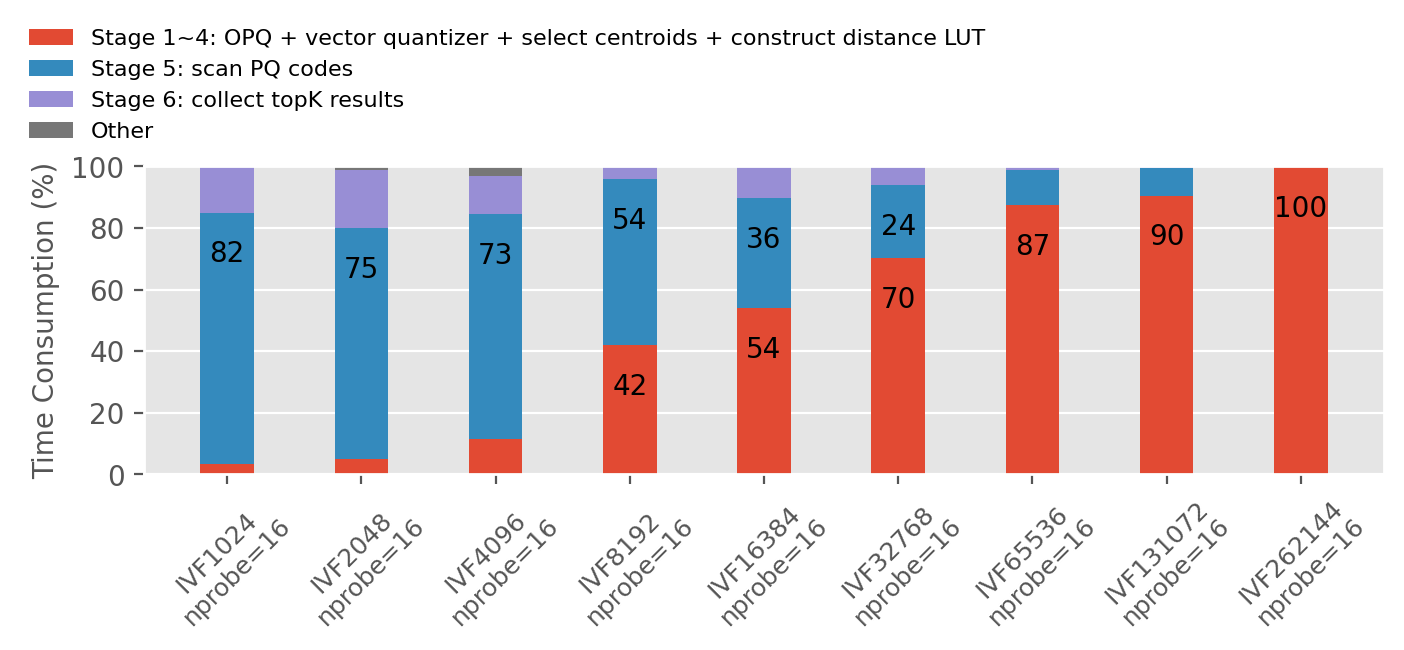
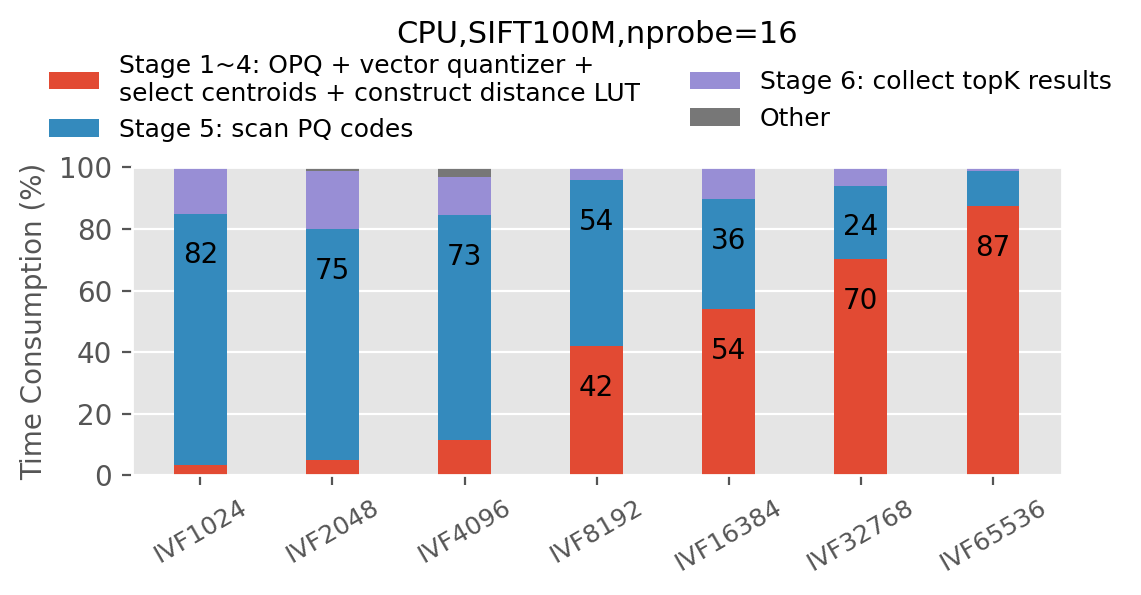
update plots

diff --git a/MICRO_CPU_profiling/plot_SIFT100M/plot_profiling_experiment_3_nlist.py b/MICRO_CPU_profiling/plot_SIFT100M/plot_profiling_experiment_3_nlist.py
@@ -9,15 +9,26 @@ from analyze_perf import group_perf_by_events, filter_events_after_timestamp, \
 from profiling_stages import draw_profiling_plot
 
 
-x_labels = ['IVF1024\nnprobe=16', \
-    'IVF2048\nnprobe=16', \
-    'IVF4096\nnprobe=16', \
-    'IVF8192\nnprobe=16', \
-    'IVF16384\nnprobe=16', \
-    'IVF32768\nnprobe=16', \
-    'IVF65536\nnprobe=16', \
-    'IVF131072\nnprobe=16', \
-    'IVF262144\nnprobe=16']
+x_labels = ['IVF1024', \
+    'IVF2048', \
+    'IVF4096', \
+    'IVF8192', \
+    'IVF16384', \
+    'IVF32768', \
+    'IVF65536', \
+    # 'IVF131072', \
+    # 'IVF262144\', \
+    ]
+# x_labels = ['IVF1024\nnprobe=16', \
+#     'IVF2048\nnprobe=16', \
+#     'IVF4096\nnprobe=16', \
+#     'IVF8192\nnprobe=16', \
+#     'IVF16384\nnprobe=16', \
+#     'IVF32768\nnprobe=16', \
+#     'IVF65536\nnprobe=16', \
+#     # 'IVF131072\nnprobe=16', \
+#     # 'IVF262144\nnprobe=16', \
+#     ]
 
 file_prefixes = [ \
     'perf.out_SIFT100M_IVF1024,PQ16_K_100_nprobe_16_qbs_10000', \
@@ -27,8 +38,9 @@ file_prefixes = [ \
     'perf.out_SIFT100M_IVF16384,PQ16_K_100_nprobe_16_qbs_10000', \
     'perf.out_SIFT100M_IVF32768,PQ16_K_100_nprobe_16_qbs_10000', \
     'perf.out_SIFT100M_IVF65536,PQ16_K_100_nprobe_16_qbs_10000', \
-    'perf.out_SIFT100M_IVF131072,PQ16_K_100_nprobe_16_qbs_10000', \
-    'perf.out_SIFT100M_IVF262144,PQ16_K_100_nprobe_16_qbs_10000']
+    # 'perf.out_SIFT100M_IVF131072,PQ16_K_100_nprobe_16_qbs_10000', \
+    # 'perf.out_SIFT100M_IVF262144,PQ16_K_100_nprobe_16_qbs_10000', \
+    ]
 
 assert len(x_labels) == len(file_prefixes)
 
@@ -106,5 +118,6 @@ y_stage_5 = [r[1] for r in profile_perc_array]
 y_stage_6 = [r[2] for r in profile_perc_array]
 y_other = [r[3] for r in profile_perc_array]
 
-draw_profiling_plot(x_labels, y_stage_1_4, y_stage_5, y_stage_6, y_other, 'cpu_profile_experiment_3_nlist_SIFT100M', x_tick_rotation=45)
+draw_profiling_plot(x_labels, y_stage_1_4, y_stage_5, y_stage_6, y_other, 'cpu_profile_experiment_3_nlist_SIFT100M', 
+    x_tick_rotation=30, title="CPU,SIFT100M,nprobe=16")
 

diff --git a/MICRO_CPU_profiling/plot_SIFT100M/profiling_stages.py b/MICRO_CPU_profiling/plot_SIFT100M/profiling_stages.py
@@ -5,7 +5,7 @@ import os
 
 def draw_profiling_plot(
     x_labels, y_stage_1_4, y_stage_5, y_stage_6, y_other, filename,
-    x_tick_rotation=45):
+    x_tick_rotation=45, title='Title'):
 
     """
     Example input:
@@ -43,7 +43,7 @@ def draw_profiling_plot(
     x = np.arange(len(x_labels))  # the label locations
     width = 0.4  # the width of the bars
 
-    fig, ax = plt.subplots(1, 1, figsize=(8, 2))
+    fig, ax = plt.subplots(1, 1, figsize=(6, 2))
 
 
     bottom_stage_1_4 = np.zeros(len(y_stage_1_4))
@@ -60,18 +60,18 @@ def draw_profiling_plot(
     label_font = 10
     tick_font = 10
     tick_label_font = 9
-    legend_font = 8
-    title_font = 14
+    legend_font = 9
+    title_font = 11
 
     # Add some text for labels, title and custom x-axis tick labels, etc.
     ax.set_ylabel('Time Consumption (%)', fontsize=label_font)
-    # ax.set_title('Scores by group and gender')
+    ax.set_title(title, fontsize=title_font, y=1.35)
     ax.set_xticks(x)
     ax.set_xticklabels(x_labels, fontsize=tick_label_font)
 
 
     ax.legend([rects_stage_1_4, rects_stage_5, rects_stage_6, rects_other], 
-        ["Stage 1~4: OPQ + vector quantizer + select centroids + construct distance LUT", \
+        ["Stage 1~4: OPQ + vector quantizer + \nselect centroids + construct distance LUT", \
         "Stage 5: scan PQ codes", "Stage 6: collect topK results", "Other"], loc=(-0.1, 1.05), ncol=2, \
       facecolor='white', framealpha=1, frameon=False, fontsize=legend_font)
 

diff --git a/MICRO_CPU_profiling/plot_SIFT100M/plot_profiling_experiment_4_nprobe.py b/MICRO_CPU_profiling/plot_SIFT100M/plot_profiling_experiment_4_nprobe.py
@@ -9,14 +9,23 @@ from analyze_perf import group_perf_by_events, filter_events_after_timestamp, \
 from profiling_stages import draw_profiling_plot
 
 
-x_labels = ['OPQ16,IVF65536\nnprobe=1', \
-    'OPQ16,IVF65536\nnprobe=2', \
-    'OPQ16,IVF65536\nnprobe=4', \
-    'OPQ16,IVF65536\nnprobe=8', \
-    'OPQ16,IVF65536\nnprobe=16', \
-    'OPQ16,IVF65536\nnprobe=32', \
-    'OPQ16,IVF65536\nnprobe=64', \
-    'OPQ16,IVF65536\nnprobe=128']
+x_labels = ['nprobe=1', \
+    'nprobe=2', \
+    'nprobe=4', \
+    'nprobe=8', \
+    'nprobe=16', \
+    'nprobe=32', \
+    'nprobe=64', \
+    'nprobe=128']
+
+# x_labels = ['OPQ16,IVF65536\nnprobe=1', \
+#     'OPQ16,IVF65536\nnprobe=2', \
+#     'OPQ16,IVF65536\nnprobe=4', \
+#     'OPQ16,IVF65536\nnprobe=8', \
+#     'OPQ16,IVF65536\nnprobe=16', \
+#     'OPQ16,IVF65536\nnprobe=32', \
+#     'OPQ16,IVF65536\nnprobe=64', \
+#     'OPQ16,IVF65536\nnprobe=128']
 
 file_prefixes = [ \
     'perf.out_SIFT100M_OPQ16,IVF65536,PQ16_K_100_nprobe_1_qbs_10000', \
@@ -85,5 +94,6 @@ y_stage_5 = [r[1] for r in profile_perc_array]
 y_stage_6 = [r[2] for r in profile_perc_array]
 y_other = [r[3] for r in profile_perc_array]
 
-draw_profiling_plot(x_labels, y_stage_1_4, y_stage_5, y_stage_6, y_other, 'cpu_profile_experiment_4_nprobe_SIFT100M', x_tick_rotation=45)
+draw_profiling_plot(x_labels, y_stage_1_4, y_stage_5, y_stage_6, y_other, 'cpu_profile_experiment_4_nprobe_SIFT100M',
+    x_tick_rotation=30, title="CPU,SIFT100M,OPQ16+IVF65536")
 

diff --git a/MICRO_CPU_profiling/plot_SIFT100M/plot_profiling_experiment_5_topK.py b/MICRO_CPU_profiling/plot_SIFT100M/plot_profiling_experiment_5_topK.py
@@ -9,14 +9,23 @@ from analyze_perf import group_perf_by_events, filter_events_after_timestamp, \
 from profiling_stages import draw_profiling_plot
 
 
-x_labels = ['OPQ16,IVF65536\ntopK=1', \
-    'OPQ16,IVF65536\ntopK=10', \
-    'OPQ16,IVF65536\ntopK=20', \
-    'OPQ16,IVF65536\ntopK=50', \
-    'OPQ16,IVF65536\ntopK=100', \
-    'OPQ16,IVF65536\ntopK=200', \
-    'OPQ16,IVF65536\ntopK=500', \
-    'OPQ16,IVF65536\ntopK=1000']
+x_labels = ['K=1', \
+    'K=10', \
+    'K=20', \
+    'K=50', \
+    'K=100', \
+    'K=200', \
+    'K=500', \
+    'K=1000']
+
+# x_labels = ['OPQ16,IVF65536\ntopK=1', \
+#     'OPQ16,IVF65536\ntopK=10', \
+#     'OPQ16,IVF65536\ntopK=20', \
+#     'OPQ16,IVF65536\ntopK=50', \
+#     'OPQ16,IVF65536\ntopK=100', \
+#     'OPQ16,IVF65536\ntopK=200', \
+#     'OPQ16,IVF65536\ntopK=500', \
+#     'OPQ16,IVF65536\ntopK=1000']
 
 file_prefixes = [ \
     'perf.out_SIFT100M_OPQ16,IVF65536,PQ16_K_1_nprobe_64_qbs_10000', \
@@ -85,4 +94,5 @@ y_stage_5 = [r[1] for r in profile_perc_array]
 y_stage_6 = [r[2] for r in profile_perc_array]
 y_other = [r[3] for r in profile_perc_array]
 
-draw_profiling_plot(x_labels, y_stage_1_4, y_stage_5, y_stage_6, y_other, 'cpu_profile_experiment_5_topK_SIFT100M', x_tick_rotation=45)
+draw_profiling_plot(x_labels, y_stage_1_4, y_stage_5, y_stage_6, y_other, 'cpu_profile_experiment_5_topK_SIFT100M', 
+    x_tick_rotation=0, title="CPU,SIFT100M,OPQ16+IVF65536")
